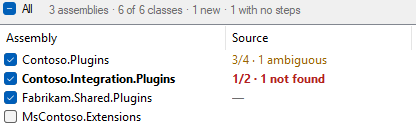
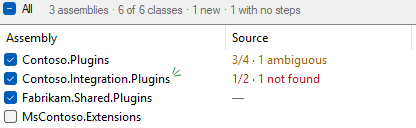
Mark a new row with a green sparkle after its name
Three short lines fanning up and to the right, drawn at seven tenths of the
line height into the list's own green. A ListView's own image goes before the
text and indents every row for it, so MarkedListView paints the mark itself
after the control has painted: touching the last letter, its top clear of the
capitals, and only inside the first column. The probe asks the list rather
than the row.

Changed region(s): [[0.0312, 0.5312, 0.4375, 0.6875], [0.5625, 0.5625, 0.7812, 0.6562]]

diff --git a/PluginStepCodegen/PluginStepCodegenControl.cs b/PluginStepCodegen/PluginStepCodegenControl.cs
@@ -114,8 +114,11 @@ namespace PluginStepCodegen
 
         /// <summary>Kept in fields because a control does not own the font it is handed.</summary>
         private readonly Font _listFont = new Font("Segoe UI", 9f);
-        /// <summary>The unread mark: a row that was not on the list last time is set in this.</summary>
-        private readonly Font _listBoldFont = new Font("Segoe UI", 9f, FontStyle.Bold);
+        /// <summary>
+        /// The mark after the name of a row that was not on the list last time. Drawn rather
+        /// than shipped, so it is the list's own colour at the list's own size.
+        /// </summary>
+        private Bitmap _newMark;
         private readonly Font _codeFont = new Font("Consolas", 9f);
         /// <summary>A size up from the toolbar's own, so the dagger reads as a mark rather than a speck.</summary>
         private readonly Font _daggerFont = new Font("Segoe UI", 11f);
@@ -362,10 +365,17 @@ namespace PluginStepCodegen
             leftToolbar.Controls.Add(_chkAllAssemblies, 0, 2);
             leftToolbar.Controls.Add(_lblStatus, 1, 2);
 
+            // The mark for a row that was not there last time, on both lists. Sized to the row,
+            // so it scales with the font rather than sitting as a 16px speck on a large display.
+            // Seven tenths of the line: a badge beside the name rather than a letter of it.
+            _newMark = DrawNewMark((int)Math.Round(_listFont.Height * 0.7), GlyphGreen);
+
             // Checked, not selected: a project that ships one assembly per plugin needs all of them
             // documented in one pass, so the list is a set rather than a pointer at one row.
-            _lvAssemblies = new ListView
+            _lvAssemblies = new MarkedListView
             {
+                Mark = _newMark,
+                IsMarked = item => _newAssemblies.Contains(((AssemblyInfo)item.Tag).Id),
                 Dock = DockStyle.Fill,
                 View = View.Details,
                 FullRowSelect = true,
@@ -414,8 +424,10 @@ namespace PluginStepCodegen
             _leftSplit.Panel1.Controls.Add(_lvAssemblies);
             _leftSplit.Panel1.Controls.Add(leftToolbar);
 
-            _lvTypes = new ListView
+            _lvTypes = new MarkedListView
             {
+                Mark = _newMark,
+                IsMarked = item => _newTypes.Contains(((PluginTypeInfo)item.Tag).Id),
                 Dock = DockStyle.Fill,
                 View = View.Details,
                 FullRowSelect = true,
@@ -764,8 +776,8 @@ namespace PluginStepCodegen
             if (disposing)
             {
                 _listFont.Dispose();
-                _listBoldFont.Dispose();
                 _codeFont.Dispose();
+                if (_newMark != null) _newMark.Dispose();
                 _daggerFont.Dispose();
                 // A ContextMenuStrip belongs to no Controls collection, so nothing else frees it.
                 if (_experimentalMenu != null) _experimentalMenu.Dispose();
@@ -1120,14 +1132,35 @@ namespace PluginStepCodegen
             }
         }
 
-        /// <summary>The unread mark, on every cell: the lists style their cells one by one.</summary>
-        private void MarkNew(ListViewItem item)
+        /// <summary>
+        /// The mark after the name of a row that was not there last time: three short lines fanning up and to the right from a point low on
+        /// the left, the way a "new" badge bursts. Lines rather than a filled star so it reads
+        /// as a mark on the row rather than as an icon the row is about.
+        /// </summary>
+        private static Bitmap DrawNewMark(int size, Color color)
         {
-            item.Font = _listBoldFont;
-            foreach (ListViewItem.ListViewSubItem cell in item.SubItems)
+            var bitmap = new Bitmap(size, size);
+            using (var g = Graphics.FromImage(bitmap))
+            using (var pen = new Pen(color, Math.Max(1.2f, size / 8f)))
             {
-                cell.Font = _listBoldFont;
+                g.SmoothingMode = System.Drawing.Drawing2D.SmoothingMode.AntiAlias;
+                pen.StartCap = System.Drawing.Drawing2D.LineCap.Round;
+                pen.EndCap = System.Drawing.Drawing2D.LineCap.Round;
+
+                // Fanning from the bottom-left corner to fill the box, so the mark is as tall
+                // as the letters it follows rather than a speck in the middle of its cell.
+                float cx = size * 0.1f, cy = size * 0.9f;
+                float inner = size * 0.3f, outer = size * 0.88f;
+                foreach (var degrees in new[] { -70, -40, -10 })
+                {
+                    var a = degrees * Math.PI / 180;
+                    g.DrawLine(pen,
+                        (float)(cx + inner * Math.Cos(a)), (float)(cy + inner * Math.Sin(a)),
+                        (float)(cx + outer * Math.Cos(a)), (float)(cy + outer * Math.Sin(a)));
+                }
             }
+
+            return bitmap;
         }
 
         private const string NewNote = "New since you last had this environment open.";
@@ -1239,11 +1272,6 @@ namespace PluginStepCodegen
                     UseItemStyleForSubItems = false
                 };
                 item.SubItems.Add(string.Empty);
-                if (_newAssemblies.Contains(assembly.Id))
-                {
-                    MarkNew(item);
-                }
-
                 _lvAssemblies.Items.Add(item);
             }
 
@@ -1511,11 +1539,6 @@ namespace PluginStepCodegen
                     };
                     item.SubItems.Add(type.Steps.Count.ToString());
                     item.SubItems.Add(string.Empty);
-                    if (_newTypes.Contains(type.Id))
-                    {
-                        MarkNew(item);
-                    }
-
                     _lvTypes.Items.Add(item);
                 }
             }
@@ -1632,7 +1655,7 @@ namespace PluginStepCodegen
                 return;
             }
 
-            // Counted among the rows on screen, so the number is always the number of bold rows
+            // Counted among the rows on screen, so the number is always the number of marked rows
             // a scroll would find. A new row behind a switch is counted once the switch is on.
             var fresh = _lvAssemblies.Items.Cast<ListViewItem>().Count(i => _newAssemblies.Contains(((AssemblyInfo)i.Tag).Id));
 

diff --git a/PluginStepCodegen/MarkedListView.cs b/PluginStepCodegen/MarkedListView.cs
@@ -1,0 +1,81 @@
+using System;
+using System.Drawing;
+using System.Windows.Forms;
+
+namespace PluginStepCodegen
+{
+    /// <summary>
+    /// A details-view list that can paint a small mark just after a row's text, in the first
+    /// column, on the rows a predicate picks out. A ListView's own image goes before the text
+    /// and indents every row to make room for it; a mark that follows the name, on the rows
+    /// that have earned one and nowhere else, has to be painted by hand - after the control has
+    /// painted itself, so selection and hover draw under it rather than over it.
+    /// </summary>
+    public class MarkedListView : ListView
+    {
+        private const int WmPaint = 0x000F;
+
+        /// <summary>The mark, or null for none.</summary>
+        public Image Mark { get; set; }
+
+        /// <summary>Which rows wear it. Null marks nothing.</summary>
+        public Func<ListViewItem, bool> IsMarked { get; set; }
+
+        protected override void WndProc(ref Message m)
+        {
+            base.WndProc(ref m);
+
+            if (m.Msg == WmPaint && Mark != null && IsMarked != null && View == View.Details
+                && Columns.Count > 0 && Items.Count > 0 && !IsDisposed)
+            {
+                PaintMarks();
+            }
+        }
+
+        private void PaintMarks()
+        {
+            var client = ClientRectangle;
+            using (var g = Graphics.FromHwnd(Handle))
+            {
+                foreach (ListViewItem item in Items)
+                {
+                    if (!IsMarked(item))
+                    {
+                        continue;
+                    }
+
+                    // Where the text is drawn: the first column from the checkbox on, which
+                    // is where a ListView starts the label.
+                    var label = item.GetBounds(ItemBoundsPortion.Label);
+                    if (label.Bottom <= client.Top || label.Top >= client.Bottom)
+                    {
+                        continue;
+                    }
+
+                    var width = TextRenderer.MeasureText(g, item.Text, item.Font,
+                        new Size(int.MaxValue, label.Height),
+                        TextFormatFlags.NoPadding | TextFormatFlags.SingleLine).Width;
+
+                    // The label has a couple of pixels of its own before the glyphs start; the
+                    // mark touches the last one and sits up like a superscript, its top clear
+                    // of the capitals and its bottom about level with the lower-case letters'
+                    // tops. Three pixels above the row is into the row above, which is blank
+                    // there; on the first row it is under the header, and that is accepted.
+                    var x = label.Left + 2 + width;
+                    var y = label.Top - 3;
+
+                    // Only inside the column: a name long enough to be cut short with an
+                    // ellipsis has no room after it, and the mark must not walk into the next
+                    // cell.
+                    var cellRight = item.GetBounds(ItemBoundsPortion.Entire).Left + Columns[0].Width;
+                    if (x + Mark.Width > cellRight - 2)
+                    {
+                        continue;
+                    }
+
+                    g.DrawImageUnscaled(Mark, x, y);
+                }
+            }
+        }
+    }
+}

diff --git a/tests/PluginStepCodegen.SlowHarness/Scenarios.cs b/tests/PluginStepCodegen.SlowHarness/Scenarios.cs
@@ -125,14 +125,14 @@ namespace PluginStepCodegen.SlowHarness
                     var ticked = r.Probe.ClassRow("AccountPreValidation");
                     r.Check(ticked != null && ticked.Checked, "AccountPreValidation should still be ticked");
 
-                    r.Check(Probe.IsBold(r.Probe.Row(Late)), Late + " was not there last time and should be bold");
-                    r.Check(!Probe.IsBold(contoso), Contoso + " was there last time and should not be bold");
-                    r.Check(Probe.IsBold(r.Probe.ClassRow("LateArrival")), "LateArrival was not there last time and should be bold");
-                    r.Check(!Probe.IsBold(ticked), "AccountPreValidation was there last time and should not be bold");
+                    r.Check(Probe.IsNew(r.Probe.Row(Late)), Late + " was not there last time and should be marked new");
+                    r.Check(!Probe.IsNew(contoso), Contoso + " was there last time and should not be marked new");
+                    r.Check(Probe.IsNew(r.Probe.ClassRow("LateArrival")), "LateArrival was not there last time and should be marked new");
+                    r.Check(!Probe.IsNew(ticked), "AccountPreValidation was there last time and should not be marked new");
 
                     var lateRow = r.Probe.Row(Late);
                     r.Check(lateRow != null && lateRow.ToolTipText.Contains("New since"),
-                        "the new assembly's tooltip should say why it is bold");
+                        "the new assembly's tooltip should say why it is marked");
                     r.Check(r.Probe.Status.Contains("1 new"),
                         "the status line should count the new assembly, and reads \"" + r.Probe.Status + "\"");
                 })
@@ -142,10 +142,10 @@ namespace PluginStepCodegen.SlowHarness
                 {
                     var contoso = r.Probe.Row(Contoso);
                     r.Check(contoso != null && contoso.Checked, Contoso + " should be ticked a third time");
-                    r.Check(r.Probe.Assemblies.Items.Cast<ListViewItem>().All(i => !Probe.IsBold(i)),
-                        "everything on the assembly list was there last time; none of it should be bold");
-                    r.Check(r.Probe.Classes.Items.Cast<ListViewItem>().All(i => !Probe.IsBold(i)),
-                        "everything on the class list was there last time; none of it should be bold");
+                    r.Check(r.Probe.Assemblies.Items.Cast<ListViewItem>().All(i => !Probe.IsNew(i)),
+                        "everything on the assembly list was there last time; none of it should be marked new");
+                    r.Check(r.Probe.Classes.Items.Cast<ListViewItem>().All(i => !Probe.IsNew(i)),
+                        "everything on the class list was there last time; none of it should be marked new");
                     r.Check(!r.Probe.Status.Contains("new"),
                         "the status line should count nothing new, and reads \"" + r.Probe.Status + "\"");
                 });

diff --git a/tests/PluginStepCodegen.SlowHarness/Probe.cs b/tests/PluginStepCodegen.SlowHarness/Probe.cs
@@ -132,10 +132,16 @@ namespace PluginStepCodegen.SlowHarness
             row.Checked = ticked;
         }
 
-        /// <summary>Whether a row wears the unread mark. A missing row does not.</summary>
-        public static bool IsBold(ListViewItem row)
+        /// <summary>
+        /// Whether a row wears the "new since last time" mark. Asked of the list that paints
+        /// it, since the mark is painted after the name rather than kept on the row. A missing
+        /// row does not.
+        /// </summary>
+        public static bool IsNew(ListViewItem row)
         {
-            return row != null && row.Font.Bold;
+            if (row == null) return false;
+            var list = row.ListView as MarkedListView;
+            return list != null && list.IsMarked != null && list.IsMarked(row);
         }
 
         /// <summary>The id behind a named assembly row, for reading the fetch cache against it.</summary>

diff --git a/CHANGELOG.md b/CHANGELOG.md
@@ -2,21 +2,21 @@
 
 ## Unreleased
 
-- **The tool remembers what you ticked and where your source is, and sets in bold whatever
+- **The tool remembers what you ticked and where your source is, and marks whatever
   was not there last time.** Every opening used to start from nothing: load, find your
   assemblies in the list again, tick them again, untick the same two classes again, paste
   the folder again. Now the first **Load Assemblies** of an environment puts all of that
   back, and anything on either list that was not on it the last time you had that
-  environment open is set in bold - a colleague's new assembly, a class somebody registered
-  since - with the count on the status line and the reason in the row's tooltip.
+  environment open wears a small green mark - a colleague's new assembly, a class somebody
+  registered since - with the count on the status line and the reason in the row's tooltip.
 
-  ![A new assembly, set in bold, and counted](assets/changelog-new-marks.png)
+  ![A new assembly, marked and counted](assets/changelog-new-marks.png)
 
   The memory is per environment, so two orgs do not trade ticks, and it is written as you go
   rather than when the tab closes. Only the first load of an environment restores; pressing
   **Load Assemblies** again in the same session still starts over, and **Refresh** still
   keeps what you have. A class counts as new only against an assembly whose classes you had
-  looked at before: ticking one for the first time does not set the whole group in bold.
+  looked at before: ticking one for the first time does not mark the whole group.
 
 ## 1.2.0
 

diff --git a/tests/README.md b/tests/README.md
@@ -351,7 +351,7 @@ checked.
 | `error-under-latency` | A timeout is readable after the dialog is gone, and is not remembered as an answer. |
 | `load-fails` | A load that times out gives Load and Refresh back. The flag that holds them down for the duration has to come up on the failure path too, or one timeout bricks the tab. |
 | `write-fails` | A write that throws — the source folder taken away underneath it — releases the folder and notices it is gone. |
-| `memory` | The tool is closed and opened again on the same environment, twice, with a class and an assembly registered in between. The second opening starts with the ticks, the unticked class and the folder of the first, and sets the two newcomers in bold; the third has nothing to set in bold. |
+| `memory` | The tool is closed and opened again on the same environment, twice, with a class and an assembly registered in between. The second opening starts with the ticks, the unticked class and the folder of the first, and marks the two newcomers; the third has nothing to mark. |
 
 The first eight failed against the code that prompted them, which is why they exist. The next
 two never did: they pin two paths where a flag not cleared means a button dead for the rest of

diff --git a/docs/choosing-assemblies.md b/docs/choosing-assemblies.md
@@ -103,7 +103,8 @@ over, as it always has, and **Refresh** keeps whatever you have. The memory is w
 you go rather than when the tab closes, so a crash costs nothing.
 
 Anything on either list that was not there the last time you had the environment open is
-**set in bold**, with the reason in the row's tooltip and a count on the status line:
+**marked with a small green sparkle** after its name, with the reason in the row's tooltip
+and a count on the status line:
 
 ```
 3 assemblies · 6 of 6 classes · 1 new
@@ -112,7 +113,7 @@ Anything on either list that was not there the last time you had the environment
 For assemblies that means any row the environment lists now and did not list then. For
 classes it means one you had not seen, in an assembly whose classes you had looked at
 before — or in an assembly that is itself new. Ticking an assembly for the first time does
-not set its whole group in bold; every class in it is unseen, and marking them all would say
+not mark its whole group; every class in it is unseen, and marking them all would say
 nothing.
 
 The count is of rows on screen, so it always matches what a scroll would find. A new
